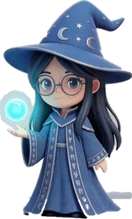
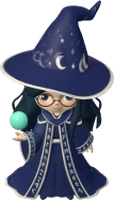
Golem de Quartzo pintado e animado (Meshy Crystal Guardian); Sabia Yun e Mestre Doran em 3D do Meshy; desenho antigo do golem removido; npc-from-glb aceita altura por NPC

diff --git a/public/src/render/renderer.js b/public/src/render/renderer.js
@@ -623,21 +623,6 @@ function drawMob(g, a, t) {
   // Pintados (assets/mobs, sem desenho por código): slime, wolf, shroom, treant, crystalwolf, wisp, wraith, knight, guardian. Sobra o golem (também gargoyle/colossus no código) até ter arte.
   switch (M.shape) {
     // slime: só existe pintado (assets/mobs/slime); o desenho antigo foi removido
-    case 'golem': {
-      g.translate(0, bob * 0.4);
-      const sw = a.swing > 0 ? 5 : 0;
-      g.fillStyle = shade(c, -0.15);
-      g.fillRect(-21, -6 + sw, 8, 14); g.fillRect(13, -6 - sw, 8, 14);
-      g.fillStyle = c;
-      g.beginPath(); g.roundRect(-14, -12, 28, 24, 6); g.fill();
-      g.fillStyle = shade(c, 0.12);
-      g.beginPath(); g.roundRect(-9, -22, 18, 13, 4); g.fill();
-      g.fillStyle = shade(c, 0.28);
-      g.beginPath(); g.moveTo(-14, -12); g.lineTo(-10, -24); g.lineTo(-6, -12); g.fill();
-      g.beginPath(); g.moveTo(8, -12); g.lineTo(13, -22); g.lineTo(15, -10); g.fill();
-      g.fillStyle = '#9ff5ff'; g.fillRect(-6 + fx * 2, -17, 4, 2.5); g.fillRect(2 + fx * 2, -17, 4, 2.5);
-      break;
-    }
   }
   if (a.hitFlash > 0) {
     g.globalAlpha = Math.min(0.65, a.hitFlash * 6);

diff --git a/tools/npc-from-glb.py b/tools/npc-from-glb.py
@@ -6,12 +6,13 @@ import numpy as np
 from PIL import Image
 root = os.path.join(os.path.dirname(__file__), '..')
 out = os.path.join(root, 'public/assets/npcs'); os.makedirs(out, exist_ok=True)
-for id_ in sys.argv[1:]:
+for spec in sys.argv[1:]:
+    id_, _, hpx = spec.partition(':')  # id ou id:altura-em-px (para GLBs separados, cada um normalizado pelo próprio tamanho)
     meta = json.load(open(os.path.join(root, f'public/assets/mobs/zz-{id_}.json')))
     sheet = Image.open(os.path.join(root, f'test-results/mob-bake/zz-{id_}.png')).convert('RGBA')
     cw, ch = meta['cell']; cell = sheet.crop((0, 0, cw, ch))
     bb = cell.getchannel('A').point(lambda v: 255 if v > 8 else 0).getbbox(); x0, y0, x1, y1 = bb
-    c = cell.crop(bb); k = 200 / meta['ppm']
+    c = cell.crop(bb); k = (int(hpx) / c.height) if hpx else 200 / meta['ppm']
     r = c.resize((max(1, round(c.width * k)), max(1, round(c.height * k))), Image.LANCZOS)
     ax = round((meta['ax'] - x0) * k); ay = round((meta['ay'] - y0) * k)
     r.save(os.path.join(out, id_ + '.webp'), 'WEBP', quality=90, method=6)
